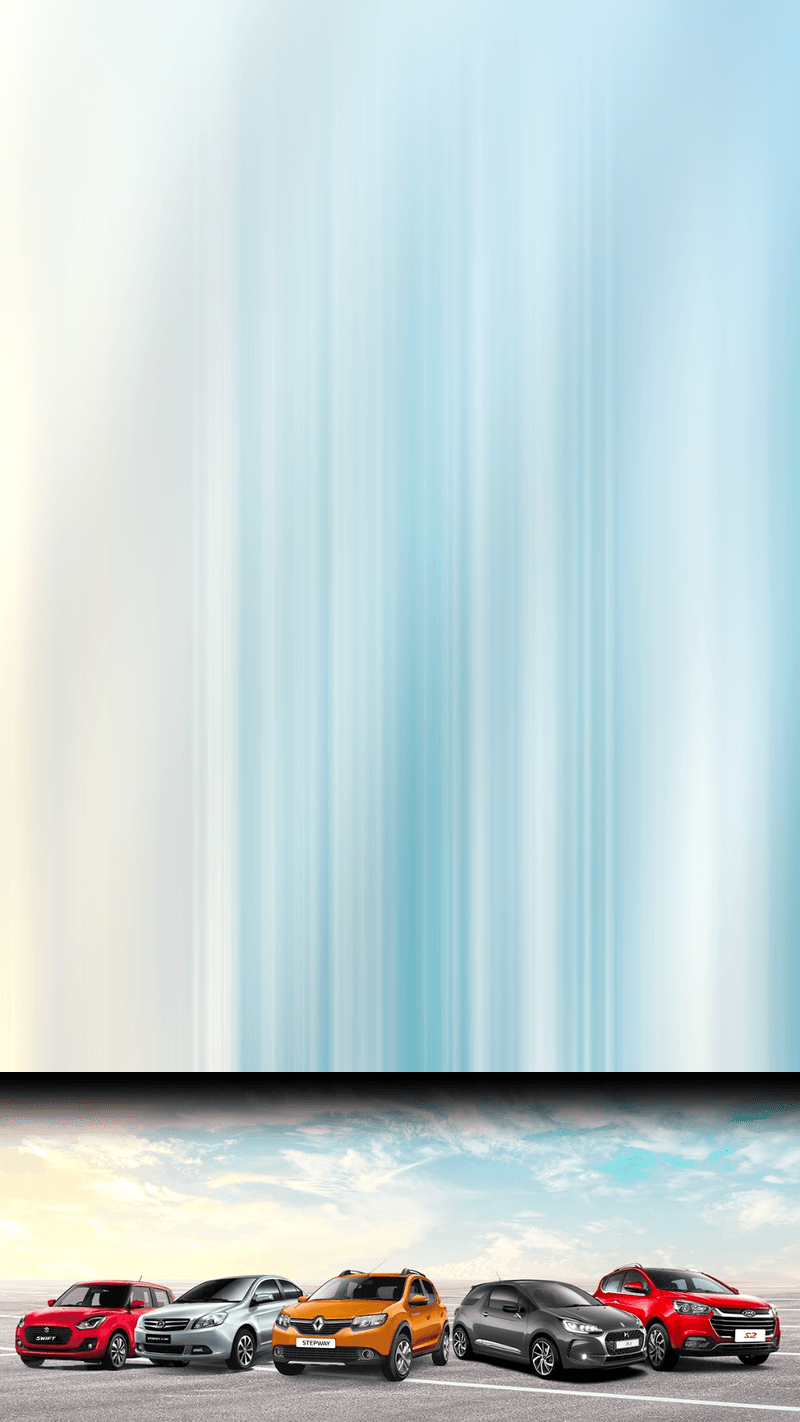
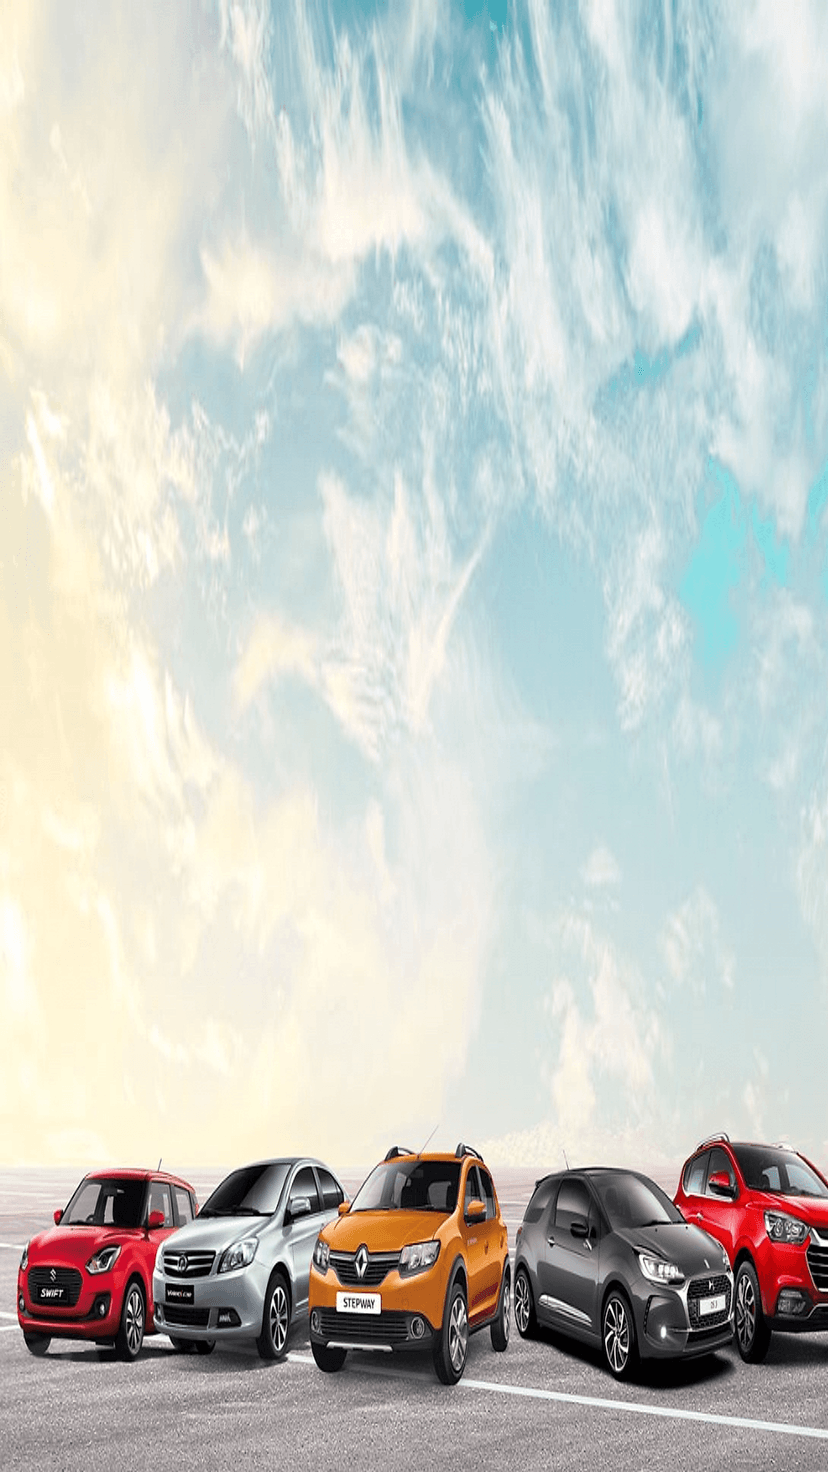
feat(mobile): generate and integrate vertical mobile version of exact 5-car fleet image

diff --git a/app/globals.css b/app/globals.css
@@ -3086,7 +3086,6 @@ a {
     flex-direction: column;
     align-items: center;
     text-align: center;
-    background: none;
   }
 
   .heading-mobile-break {
@@ -3100,8 +3099,8 @@ a {
     max-width: 320px;
     margin: 0 auto 6px auto;
     letter-spacing: -0.02em;
-    color: #ffffff;
-    text-shadow: 0 2px 8px rgba(0, 0, 0, 0.7), 0 1px 3px rgba(0, 0, 0, 0.9);
+    color: #0f172a;
+    text-shadow: 0 1px 2px rgba(255, 255, 255, 0.65);
   }
 
   .heading-accent-line {
@@ -3110,23 +3109,16 @@ a {
     background-color: #f59e0b;
     border-radius: 3px;
     margin: 6px auto 12px auto;
-    box-shadow: 0 1px 4px rgba(0, 0, 0, 0.4);
   }
 
   .hero-rentq-subtext {
     max-width: 330px;
-    font-size: 0.86rem;
-    font-weight: 600;
-    color: #ffffff;
+    font-size: 0.83rem;
+    font-weight: 500;
+    color: #1e293b;
     line-height: 1.45;
     margin: 0 auto 13px auto;
-    text-shadow: 0 1px 6px rgba(0, 0, 0, 0.75), 0 1px 3px rgba(0, 0, 0, 0.9);
-  }
-
-  .hero-rentq-subtext strong {
-    color: #ffffff;
-    font-weight: 800;
-    text-shadow: 0 1px 6px rgba(0, 0, 0, 0.85);
+    text-shadow: 0 1px 2px rgba(255, 255, 255, 0.7);
   }
 
   .hero-plan-tabs-wrap {

diff --git a/app/page.js b/app/page.js
@@ -511,7 +511,7 @@ export default function Home() {
         <section className="hero-rentq-section" id="hero">
           {/* Responsive Hero Background Image */}
           <picture className="hero-rentq-bg-wrap">
-            <source media="(max-width: 768px)" srcSet="/images/hero-fleet-mobile.jpg?v=6" />
+            <source media="(max-width: 768px)" srcSet="/images/hero-fleet-mobile-same.jpg" />
             <img
               src="/images/hero-fleet-4k.png"
               alt="RENC lineup of modern rental cars in Hyderabad: hatchbacks, sedans, compact SUVs and luxury cars"
